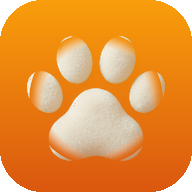
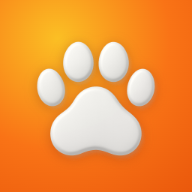
fix(iphone): ícone do app refeito e cartão de notificações que diz a verdade
- Ícone novo: patinha 3D branca sobre laranja de ponta a ponta (sem cantos
  arredondados embutidos nem recorte serrilhado); versão "maskable" com
  margem segura para o Android; ?v=2 para furar o cache.
- Cartão de notificações: "Ativas" só quando o aparelho foi conectado ao
  servidor; senão "Permitidas, mas não conectadas" + botão "Tentar de novo".
- Uma segunda tentativa automática do getToken (no iPhone a primeira falha
  com frequência logo após instalar o service worker).
- Linha de diagnóstico (iPhone/instalado/permissão) e instrução de
  desbloqueio específica do iPhone (Ajustes → Notificações → Patinha).

diff --git a/components/NotificacoesCard.tsx b/components/NotificacoesCard.tsx
@@ -6,7 +6,7 @@ import { useNotifications } from '@/lib/useNotifications';
 // Situação das notificações NESTE aparelho + botão de teste. Fica na página
 // da conta para o tutor (e a equipe) conferir que os lembretes chegam.
 export function NotificacoesCard() {
-  const { permission, suporte, loading, erro, requestPermission, enviarTeste } = useNotifications();
+  const { permission, suporte, token, loading, erro, aparelho, requestPermission, enviarTeste } = useNotifications();
   const [testando, setTestando] = useState(false);
   const [resultado, setResultado] = useState<{ ok: boolean; mensagem: string } | null>(null);
 
@@ -26,9 +26,15 @@ export function NotificacoesCard() {
   if (suporte === 'verificando') situacao = { texto: 'Verificando…', cor: 'text-slate-500 dark:text-slate-400' };
   else if (suporte === 'instalar-no-iphone') situacao = { texto: 'Instale o app para ativar', cor: 'text-amber-700 dark:text-amber-300' };
   else if (suporte === 'nao') situacao = { texto: 'Este navegador não recebe notificações', cor: 'text-slate-500 dark:text-slate-400' };
-  else if (permission === 'granted') situacao = { texto: 'Ativas neste aparelho', cor: 'text-emerald-700 dark:text-emerald-300' };
+  else if (permission === 'granted' && token) situacao = { texto: 'Ativas neste aparelho', cor: 'text-emerald-700 dark:text-emerald-300' };
+  else if (permission === 'granted' && loading) situacao = { texto: 'Conectando…', cor: 'text-slate-500 dark:text-slate-400' };
+  else if (permission === 'granted') situacao = { texto: 'Permitidas, mas não conectadas', cor: 'text-amber-700 dark:text-amber-300' };
   else if (permission === 'denied') situacao = { texto: 'Bloqueadas neste aparelho', cor: 'text-red-600 dark:text-red-300' };
-  else situacao = { texto: 'Desativadas', cor: 'text-slate-500 dark:text-slate-400' };
+  else situacao = { texto: 'Ainda não ativadas', cor: 'text-slate-500 dark:text-slate-400' };
+
+  const conectadas = suporte === 'sim' && permission === 'granted' && !!token;
+  const precisaTentarDeNovo = suporte === 'sim' && permission === 'granted' && !token && !loading;
+  const permissaoTexto = { default: 'ainda não pedida', granted: 'permitida', denied: 'bloqueada' }[permission];
 
   return (
     <section
@@ -56,23 +62,49 @@ export function NotificacoesCard() {
 
       {suporte === 'sim' && permission === 'denied' && (
         <p className="mt-3 text-xs leading-5 text-slate-600 dark:text-slate-300">
-          Para desbloquear, abra as configurações do site no navegador (ícone ao lado do endereço) e permita
-          notificações. Depois recarregue esta página.
+          {aparelho?.ios ? (
+            <>
+              Para desbloquear no iPhone: <strong>Ajustes → Notificações → Patinha</strong> → ative{' '}
+              <strong>Permitir Notificações</strong>. Depois feche e abra o Patinha.
+            </>
+          ) : (
+            <>
+              Para desbloquear, abra as configurações do site no navegador (ícone ao lado do endereço) e permita
+              notificações. Depois recarregue esta página.
+            </>
+          )}
         </p>
       )}
 
       {suporte === 'sim' && permission === 'default' && (
+        <>
+          <p className="mt-3 text-xs leading-5 text-slate-600 dark:text-slate-300">
+            Toque no botão abaixo e escolha <strong>Permitir</strong> na pergunta que aparecer.
+          </p>
+          <button
+            type="button"
+            data-testid="ativar-notificacoes"
+            onClick={requestPermission}
+            disabled={loading}
+            className="mt-3 w-full rounded-xl bg-violet-600 py-3 text-sm font-bold text-white transition hover:bg-violet-700 disabled:opacity-50"
+          >
+            {loading ? 'Ativando…' : 'Ativar notificações'}
+          </button>
+        </>
+      )}
+
+      {precisaTentarDeNovo && (
         <button
           type="button"
+          data-testid="tentar-de-novo"
           onClick={requestPermission}
-          disabled={loading}
-          className="mt-4 w-full rounded-xl bg-slate-900 py-2.5 text-sm font-semibold text-white transition hover:bg-slate-800 disabled:opacity-50 dark:bg-white dark:text-slate-900 dark:hover:bg-slate-200"
+          className="mt-4 w-full rounded-xl bg-violet-600 py-3 text-sm font-bold text-white transition hover:bg-violet-700"
         >
-          {loading ? 'Ativando…' : 'Ativar notificações'}
+          Tentar de novo
         </button>
       )}
 
-      {suporte === 'sim' && permission === 'granted' && (
+      {conectadas && (
         <button
           type="button"
           onClick={testar}
@@ -89,6 +121,13 @@ export function NotificacoesCard() {
           className={`mt-2 text-xs ${resultado?.ok ? 'text-emerald-700 dark:text-emerald-300' : 'text-red-600 dark:text-red-300'}`}
         >
           {resultado?.mensagem || erro}
+        </p>
+      )}
+
+      {aparelho && suporte !== 'verificando' && (
+        <p data-testid="notificacoes-diagnostico" className="mt-3 text-[11px] text-slate-400 dark:text-slate-500">
+          {aparelho.ios ? 'iPhone' : 'Este aparelho'} · {aparelho.instalado ? 'aberto pelo app instalado' : 'aberto no navegador'}
+          {'Notification' in globalThis ? ` · permissão: ${permissaoTexto}` : ' · sem suporte a notificações'}
         </p>
       )}
     </section>

diff --git a/lib/useNotifications.ts b/lib/useNotifications.ts
@@ -11,6 +11,12 @@ const TOKEN_ENVIADO_KEY = 'patinha_push_token_enviado';
 
 export type SuporteNotificacao = 'verificando' | 'sim' | 'nao' | 'instalar-no-iphone';
 
+/** Onde o app está rodando — aparece no cartão para ajudar a descobrir problemas. */
+export interface Aparelho {
+  ios: boolean;
+  instalado: boolean;
+}
+
 async function registrarServiceWorker() {
   return navigator.serviceWorker.register(SW_URL);
 }
@@ -24,7 +30,16 @@ async function sincronizarToken(forcar: boolean): Promise<{ token: string | null
   if (!messaging) return { token: null, erro: 'Este navegador não recebe notificações.' };
 
   const serviceWorkerRegistration = await registrarServiceWorker();
-  const token = await getToken(messaging, { vapidKey: VAPID_KEY, serviceWorkerRegistration });
+  let token: string;
+  try {
+    token = await getToken(messaging, { vapidKey: VAPID_KEY, serviceWorkerRegistration });
+  } catch (err) {
+    // No iPhone a primeira inscrição às vezes falha logo depois de instalar o
+    // service worker ("push service error"). Uma segunda tentativa resolve.
+    console.warn('getToken falhou, tentando de novo:', err);
+    await new Promise((r) => setTimeout(r, 1500));
+    token = await getToken(messaging, { vapidKey: VAPID_KEY, serviceWorkerRegistration });
+  }
   if (!token) return { token: null, erro: 'Não consegui ativar neste aparelho.' };
 
   let salvo = null;
@@ -54,6 +69,7 @@ export function useNotifications() {
   const [token, setToken] = useState<string | null>(null);
   const [loading, setLoading] = useState(false);
   const [erro, setErro] = useState<string | null>(null);
+  const [aparelho, setAparelho] = useState<Aparelho | null>(null);
 
   useEffect(() => {
     let ativo = true;
@@ -62,6 +78,7 @@ export function useNotifications() {
       const standalone =
         window.matchMedia?.('(display-mode: standalone)').matches ||
         (navigator as Navigator & { standalone?: boolean }).standalone === true;
+      if (ativo) setAparelho({ ios: /iPhone|iPad|iPod/i.test(navigator.userAgent), instalado: !!standalone });
       if (precisaInstalarNoIphone(navigator.userAgent, standalone)) {
         if (ativo) setSuporte('instalar-no-iphone');
         return;
@@ -97,11 +114,21 @@ export function useNotifications() {
       // Já permitido antes: confirma em silêncio que o servidor tem o token
       // atual deste aparelho (ele pode ter mudado ou o envio ter falhado).
       if (Notification.permission === 'granted') {
+        setLoading(true);
         sincronizarToken(false)
           .then((r) => {
-            if (ativo && r.token) setToken(r.token);
+            if (!ativo) return;
+            setToken(r.erro ? null : r.token);
+            setErro(r.erro);
           })
-          .catch((err) => console.error('Falha ao sincronizar notificações:', err));
+          .catch((err) => {
+            console.error('Falha ao sincronizar notificações:', err);
+            const motivo = err instanceof Error ? ` (${err.name})` : '';
+            if (ativo) setErro(`Não consegui conectar este aparelho. Toque em "Tentar de novo".${motivo}`);
+          })
+          .finally(() => {
+            if (ativo) setLoading(false);
+          });
       }
     })();
     return () => {
@@ -121,12 +148,12 @@ export function useNotifications() {
       if (result !== 'granted') return null;
 
       const r = await sincronizarToken(true);
-      setToken(r.token);
+      setToken(r.erro ? null : r.token);
       setErro(r.erro);
       return r.erro ? null : r.token;
     } catch (err) {
       console.error('Error requesting notification permission:', err);
-      setErro('Não consegui ativar as notificações. Tente de novo.');
+      setErro(`Não consegui ativar as notificações. Tente de novo. (${err instanceof Error ? err.name : 'erro'})`);
       return null;
     } finally {
       setLoading(false);
@@ -146,5 +173,5 @@ export function useNotifications() {
     return { ok: false, mensagem: data.error || 'Não consegui enviar o teste.' };
   }, []);
 
-  return { permission, suporte, token, loading, erro, requestPermission, enviarTeste };
+  return { permission, suporte, token, loading, erro, aparelho, requestPermission, enviarTeste };
 }

diff --git a/app/layout.tsx b/app/layout.tsx
@@ -22,11 +22,11 @@ export const metadata = {
   icons: {
     icon: [
       { url: '/favicon.ico', sizes: '32x32' },
-      { url: '/favicon-32.png', sizes: '32x32', type: 'image/png' },
-      { url: '/icon-192.png', sizes: '192x192', type: 'image/png' },
-      { url: '/icon-512.png', sizes: '512x512', type: 'image/png' },
+      { url: '/favicon-32.png?v=2', sizes: '32x32', type: 'image/png' },
+      { url: '/icon-192.png?v=2', sizes: '192x192', type: 'image/png' },
+      { url: '/icon-512.png?v=2', sizes: '512x512', type: 'image/png' },
     ],
-    apple: [{ url: '/apple-touch-icon.png', sizes: '180x180', type: 'image/png' }],
+    apple: [{ url: '/apple-touch-icon.png?v=2', sizes: '180x180', type: 'image/png' }],
   },
   // Instalado na tela de início do iPhone, abre como app (necessário para push no iOS).
   appleWebApp: { capable: true, title: 'Patinha', statusBarStyle: 'default' },

diff --git a/app/manifest.ts b/app/manifest.ts
@@ -14,9 +14,9 @@ export default function manifest(): MetadataRoute.Manifest {
     theme_color: '#f97316',
     lang: 'pt-BR',
     icons: [
-      { src: '/icon-192.png', sizes: '192x192', type: 'image/png' },
-      { src: '/icon-512.png', sizes: '512x512', type: 'image/png' },
-      { src: '/icon-512.png', sizes: '512x512', type: 'image/png', purpose: 'maskable' },
+      { src: '/icon-192.png?v=2', sizes: '192x192', type: 'image/png' },
+      { src: '/icon-512.png?v=2', sizes: '512x512', type: 'image/png' },
+      { src: '/icon-maskable-512.png', sizes: '512x512', type: 'image/png', purpose: 'maskable' },
     ],
   };
 }
